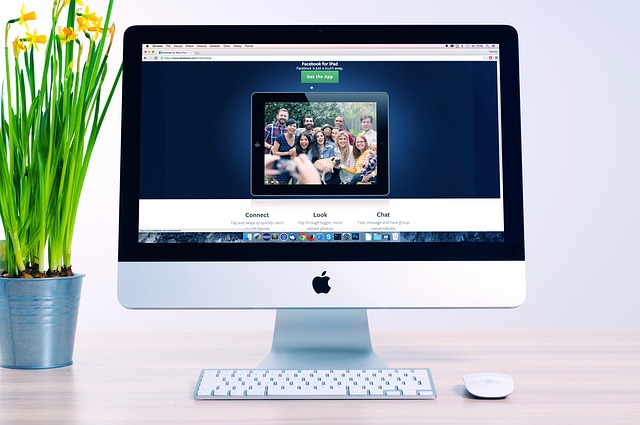
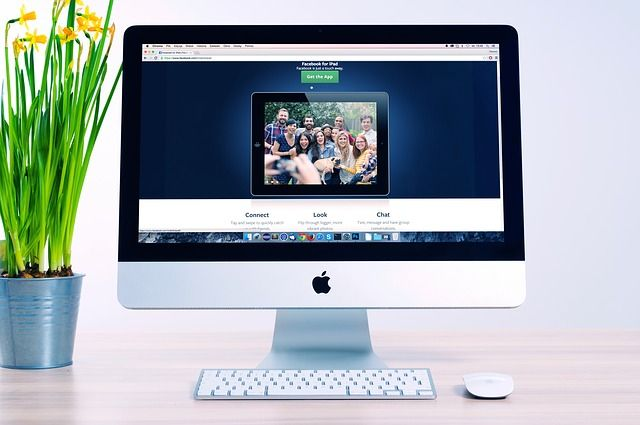
Optimize the images

Changed region(s): [[0.0938, 0.0, 0.1875, 0.0918], [0.0312, 0.0306, 0.0625, 0.1224], [0.4688, 0.5506, 0.5, 0.5812]]

diff --git a/public/index.html b/public/index.html
@@ -2,14 +2,14 @@
 <html lang="en">
   <head>
     <meta charset="utf-8" />
-    <link rel="icon" href="%PUBLIC_URL%/images/favicon.ico" />
+    <link rel="icon" href="images/favicon.ico" />
     <meta name="viewport" content="width=device-width, initial-scale=1" />
     <meta name="theme-color" content="#000000" />
     <meta
       name="description"
       content="Web site created using create-react-app"
     />
-    <link rel="manifest" href="%PUBLIC_URL%/manifest.json" />
+    <link rel="manifest" href="manifest.json" />
     <title>Ultra Profile | Home Page</title>
     <link href="https://stackpath.bootstrapcdn.com/font-awesome/4.7.0/css/font-awesome.min.css" rel="stylesheet" integrity="sha384-wvfXpqpZZVQGK6TAh5PVlGOfQNHSoD2xbE+QkPxCAFlNEevoEH3Sl0sibVcOQVnN" crossorigin="anonymous">
   </head>
